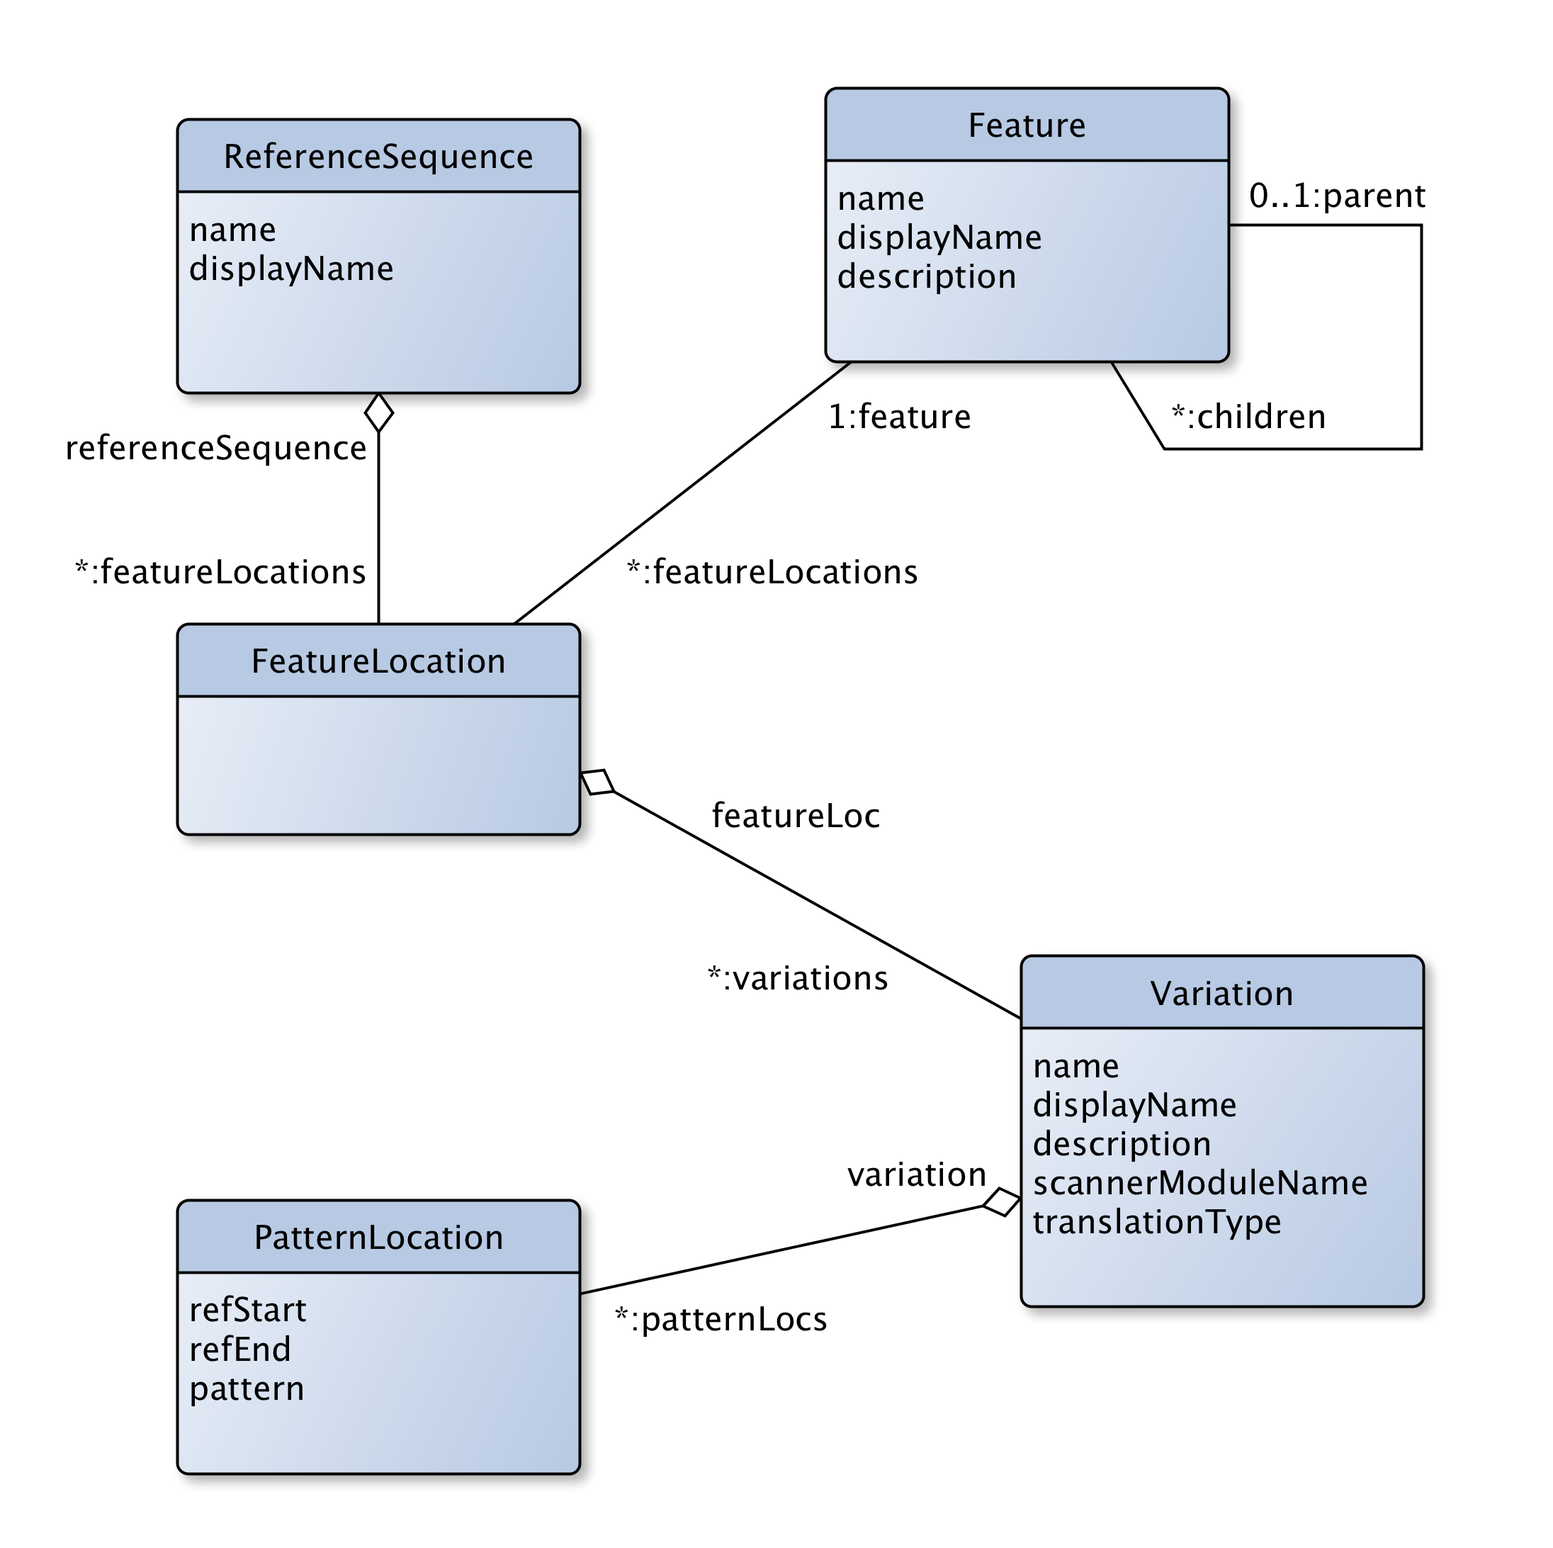
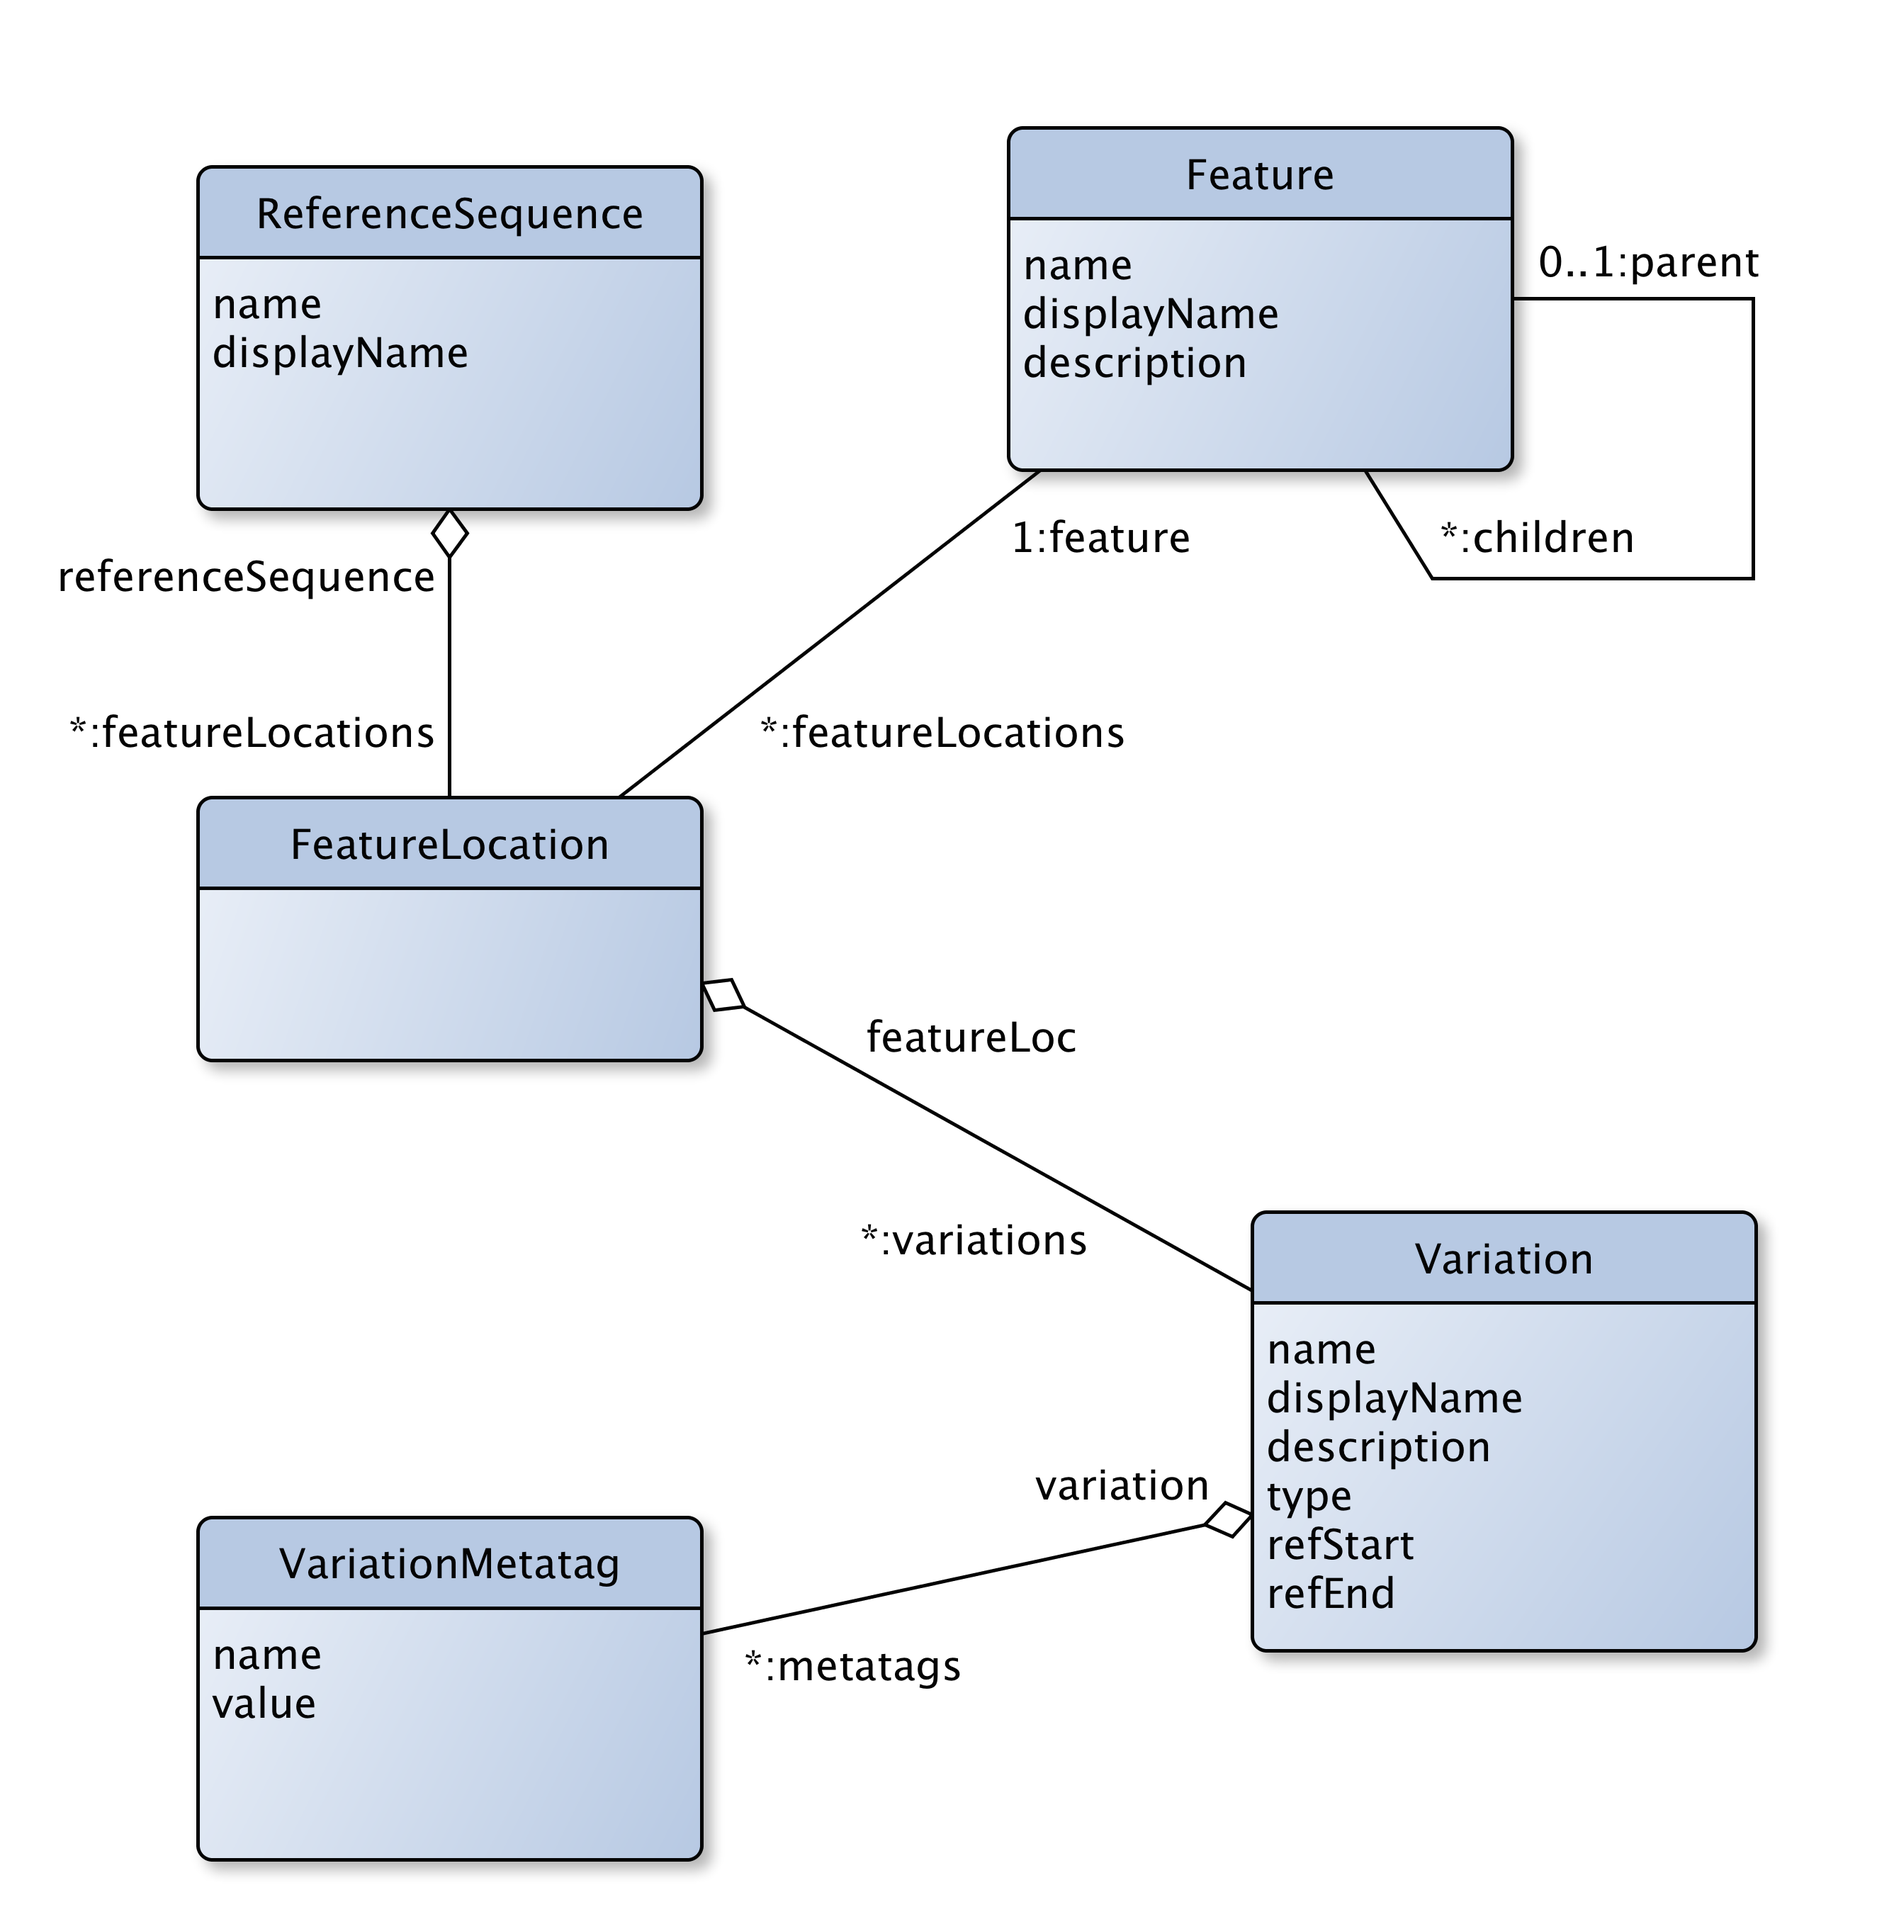
update to the core schema page to reflect changes to the Variations part of the core schema.

diff --git a/gluetoolsApp/WebContent/pages/design/coreSchema/page.html b/gluetoolsApp/WebContent/pages/design/coreSchema/page.html
@@ -224,8 +224,8 @@ linked together, read the <a href="#alignments">Alignments and Alignment Trees</
 		<p>
 			GLUE addresses this type of question via the <em>Variation</em>
 			object class. A <em>Variation</em> is a named nucleotide or
-			amino-acid residue pattern. GLUE contains commands which use these <em>Variation</em>
-			patterns to analyse sequence data.
+			amino-acid residue pattern. GLUE contains commands which use <em>Variation</em>
+			objects to analyse sequence data.
 		</p>
 		<p>
 			In order to anchor the genomic location in which the pattern may be
@@ -234,14 +234,11 @@ linked together, read the <a href="#alignments">Alignments and Alignment Trees</
 			<em>FeatureLocation</em> provides a coordinate space in which the <em>Variation</em>
 			is located. This allows documented patterns from the literature to be
 			quickly incorporated into a GLUE project using standardised
-			coordinates. Each <em>Variation</em> specifies one or more 
-			<em>PatternLocation</em>. These are sub-regions within the 
-			<em>FeatureLocation</em> and where specific patterns
-			should be analysed. The patterns associated with a <em>Variation</em>
-			may be simply exact matches against concrete strings of
-			nucleotides or amino acids. Alternatively 
-			<a target="_blank" href="https://docs.oracle.com/javase/8/docs/api/java/util/regex/Pattern.html">Java regular expressions</a>
-			may be used for greater expressive flexibility.
+			coordinates. 
+		</p>
+		<p>
+			The <a href="#/variations">Variations section of the User Guide</a> gives details on how
+			they can be constructed and utilised.
 		</p>
 	</div>
 	<div class="col-md-6">
